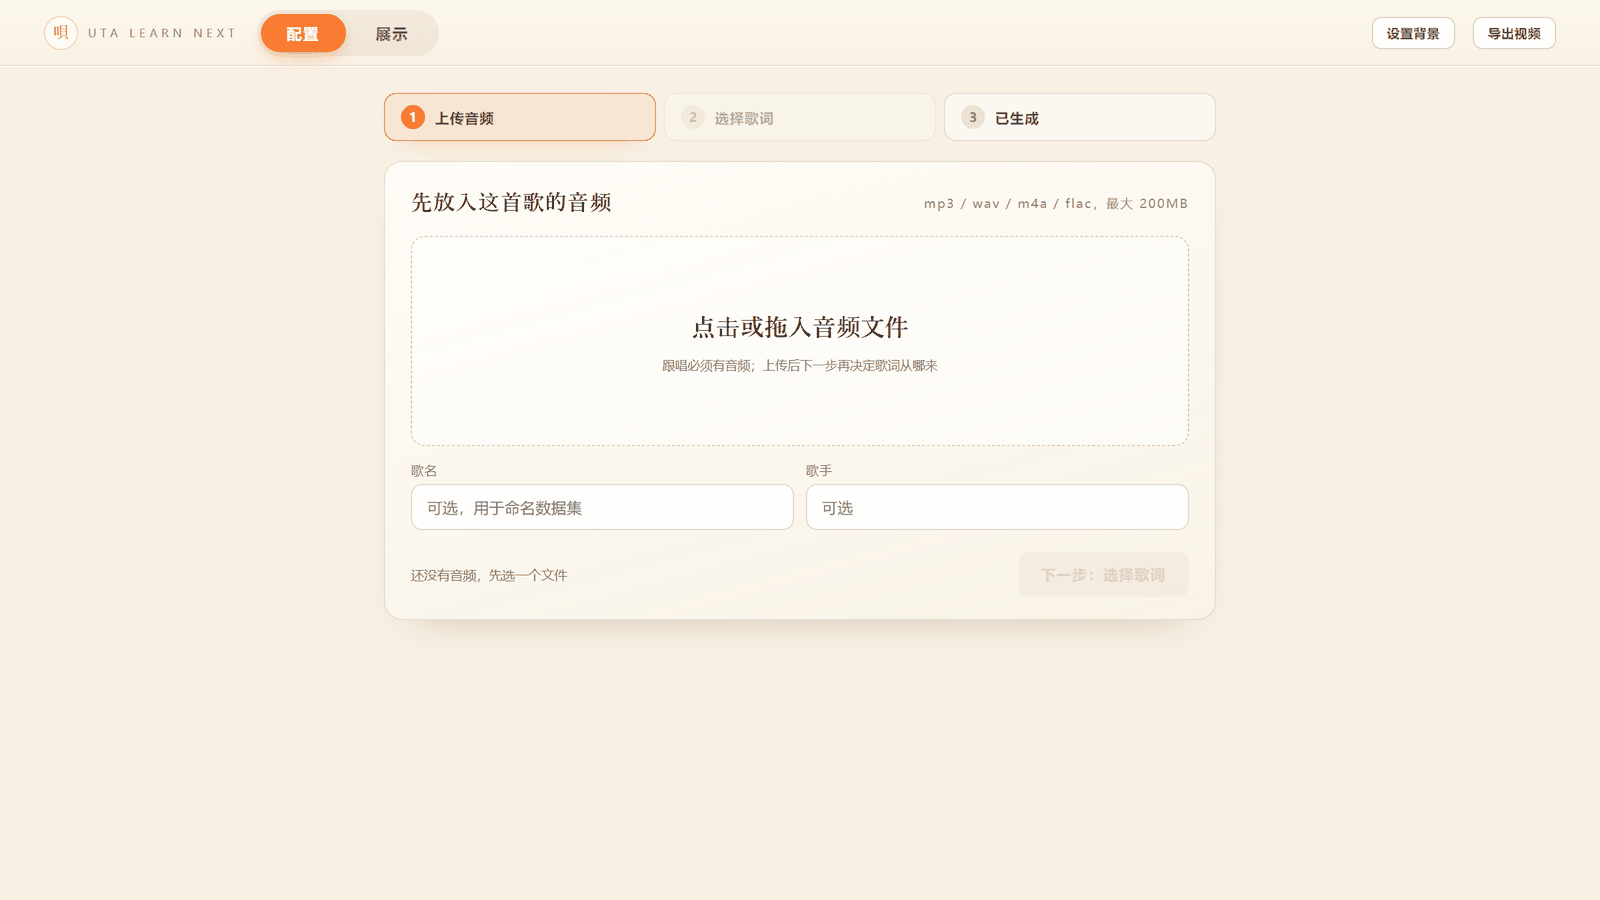
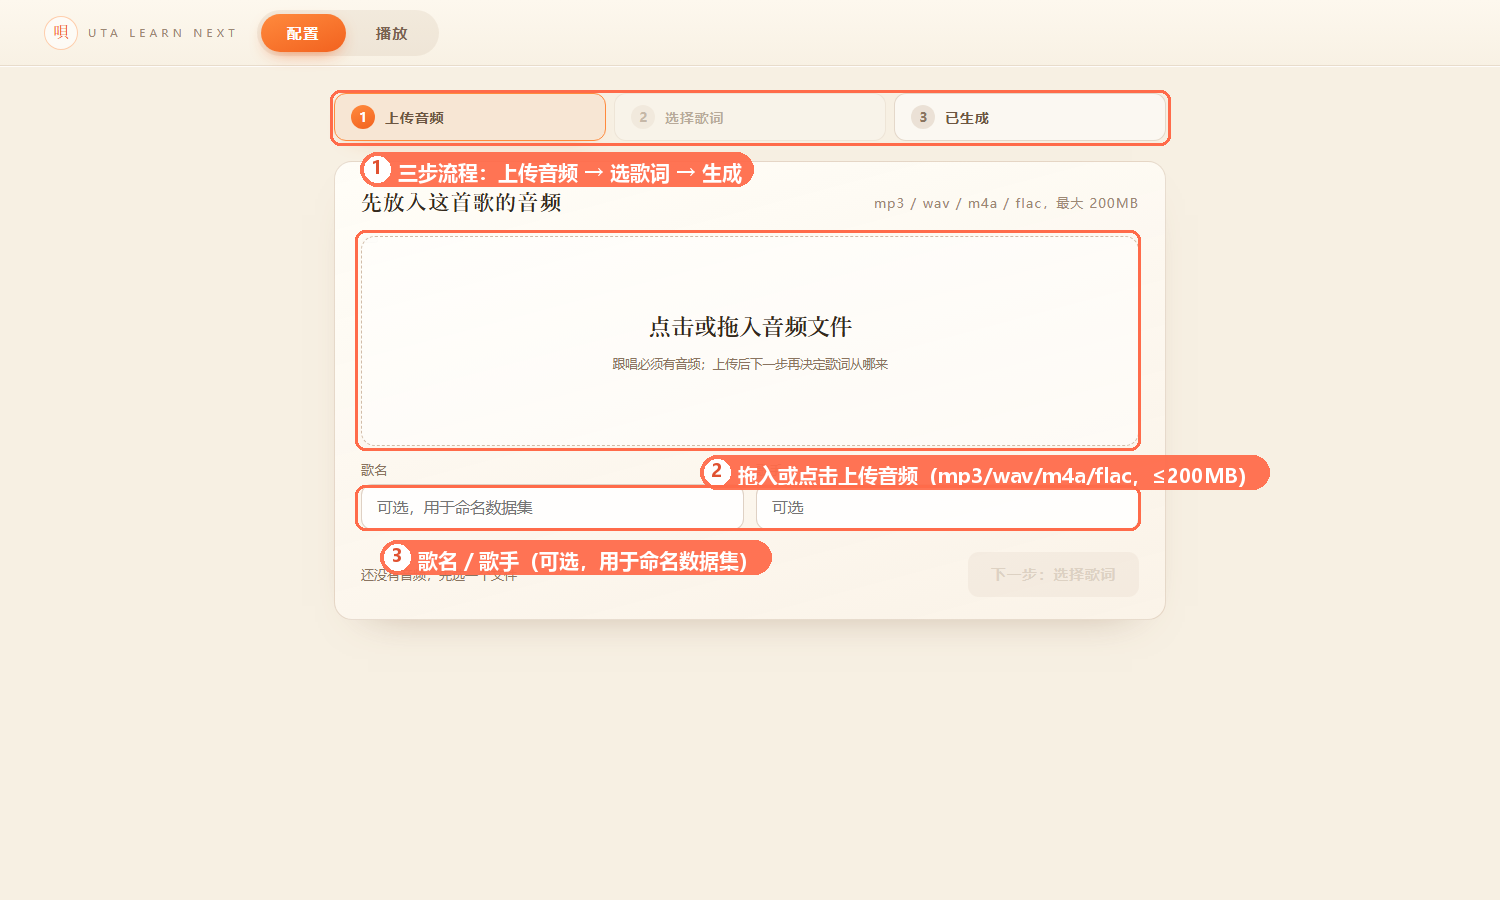
docs(readme): rewrite quick-start for end users and re-shoot all screenshots
Lead with the portable release since most users never touch the source
tree; fold the dev/packaging commands into <details> blocks and note the
two extension packs install themselves from inside the app.

Replace the stale auto-retime section with the manual-crop flow, drop
dead env vars (UTALEARN_ONSET_LEAD / UTALEARN_WHISPER), refresh the
directory/env/api tables for the merged packs, and replace the missing-
model error text with the new pack name.

Re-shoot every screenshot against the real app (coral numbered
annotations): stage, config, both pick-lyric tabs, generated list,
lyric edit, right-click menu, and the export-env modal.

diff --git a/backend/main.py b/backend/main.py
@@ -25,7 +25,7 @@ from fastapi.middleware.cors import CORSMiddleware
 from fastapi.responses import FileResponse, JSONResponse
 from fastapi.staticfiles import StaticFiles
 
-from app import export, fallback, jobs, retime
+from app import export, fallback, jobs
 from app import translate as translate_mod
 from app.builder import _is_credit
 from app.builder import build as build_song
@@ -276,45 +276,6 @@ def _upload_path(upload_id: str) -> Path:
 
 
 
-def _try_retime(parsed, audio: Path, progress) -> dict | None:
-    """Fit the source timeline onto `audio`; None when the fit is not trusted.
-
-    Runs whisper once. The transcription is cached on the ParsedLyrics object so
-    a failed fit can fall straight through to the whisper build without paying
-    for a second pass.
-    """
-    cached = getattr(parsed, "_wsegs", None)
-    if cached is None:
-        progress(0.15, "识别你的音频，用于对齐版本差异…")
-        try:
-            wav = fallback.to_wav(audio)
-            x, sr = fallback.load_wav(wav)
-            wsegs = fallback._transcribe(x, progress)
-        except Exception as e:  # noqa: BLE001
-            progress(0.18, f"识别失败，改用其他方式：{e}")
-            return None
-        finally:
-            try:
-                wav.unlink(missing_ok=True)
-            except Exception:  # noqa: BLE001
-                pass
-        parsed._wsegs = wsegs
-    else:
-        wsegs = cached
-
-    if not wsegs:
-        return None
-    try:
-        fitted = retime.fit(parsed, wsegs)
-    except Exception:  # noqa: BLE001
-        return None
-    if not fitted or not fitted.get("ok"):
-        if fitted:
-            progress(0.20, f"重对时不可靠（残差 {fitted['residual']:.2f}s），改用全量对齐")
-        return None
-    return fitted
-
-
 def _lyric_lines(parsed, title: str, artist: str, source_song: Song | None = None) -> list[str]:
     """Plain lyric text lines from a parsed source, credits dropped.
 
@@ -554,7 +515,7 @@ async def api_build_text(payload: dict):
         data = fallback.build_from_audio(audio, lines, {
             "title": title, "artist": artist,
             "youtube_url": "", "language": "ja",
-            "whisperx_model": os.environ.get("UTALEARN_WHISPER", "large-v3"),
+            "whisperx_model": "",
             "align_model": "whisper 切片转写 + 假名全局对齐 + 逐字锚定",
             "vocal_separation": "none",
             "source": "本地上传 + whisper",

diff --git a/backend/app/fallback.py b/backend/app/fallback.py
@@ -225,8 +225,9 @@ def _model_root() -> Path:
 def _model_missing_msg() -> str:
     return (
         "未找到语音识别模型。这个功能需要「自定义歌词模型扩展包」：在配置页点"
-        "「下载并安装扩展」一键装好，或到发行版页面下载 whisper-small 扩展包，"
-        "解压到应用目录的 models/ 下（得到 models/whisper-small/）后重启。"
+        "「下载并安装扩展」一键装好，或到发行版页面下载 "
+        "UtaLearnNext-custom-lyrics.zip，解压到应用目录的 models/ 下"
+        "（得到 models/whisper-small/）后重启。"
     )
 
 

diff --git a/README.md b/README.md
@@ -17,68 +17,89 @@
 
 ## 界面预览
 
-**跟唱舞台** —— 逐字高亮只标汉字的假名注音、罗马音、中文翻译；下方是当前这一句的词汇卡与句型卡。
+**跟唱舞台** —— 逐字高亮只标汉字的假名注音、罗马音、中文翻译；下方是当前这一句的词条卡与句型卡。
 
-![跟唱舞台](docs/screenshots/hero.png)
+![跟唱舞台](docs/screenshots/stage.png)
 
-**词汇卡与句型卡** —— 辞书形 + 读音 + 词性 + JLPT + 中文释义；歌里用的是屈折形时，会另外标出实际形式。
+**配置** —— 放入自己下载的音频，三种来源选一份，剩下的交给它。
 
-![词汇卡与句型卡](docs/screenshots/cards.png)
+![配置](docs/screenshots/config.png)
 
-**导出成片** —— 一键导出 1920×1080 / 60fps。下图取自实际导出的 mp4，可见逐字高亮正在擦过「雨」字。
+**选歌词 · 搜索** —— 一次查 QQ 音乐 / 酷狗 / Lrclib，带「逐字」的源有每个字的时间戳。
 
-![导出成片](docs/screenshots/export.png)
+![搜索歌词](docs/screenshots/pick_search.png)
 
-**配置** —— 放入自己下载的音频，选一份歌词源，剩下的交给它。
+**选歌词 · 自定义** —— 粘贴自己的歌词文本，whisper 在你上传的音频上离线对齐；装扩展后可顺带生成中文翻译。
 
-![配置界面](docs/screenshots/config.png)
+![自定义歌词](docs/screenshots/pick_custom.png)
+
+**已生成** —— 所有数据集都在这一步，随时回到跟唱或清理。
+
+![已生成](docs/screenshots/generated.png)
+
+**改歌词、改卡片** —— 双击歌词行进编辑（含自定义读音写法）；双击卡片进入编辑、拖动排序、右键删除；右键空白处新建卡片或整首隐藏词条/翻译。
+
+![歌词编辑](docs/screenshots/lyric_edit.png)
+![右键菜单](docs/screenshots/menu.png)
+
+**导出前会检查环境** —— Playwright / Chromium 内核浏览器 / ffmpeg 逐项探测，缺了给「自动修复」或装 Chromium 扩展包的入口。
+
+![导出环境检查](docs/screenshots/export_env.png)
 
 ---
 
 ## 快速开始
 
-需要 **Python 3.12+**、**Node.js 18+**，以及 PATH 里的 **ffmpeg**。
-
-Windows 双击 **`dev.cmd`**；macOS / Linux 运行 **`./dev.sh`**。
-首次运行会自动装依赖并构建前端，之后秒开。浏览器会打开 <http://localhost:8000/>。
-
-| 命令                   | 作用                                     |
-| ---------------------- | ---------------------------------------- |
-| `dev.cmd` / `./dev.sh` | 需要时才构建，单进程起在 :8000           |
-| `dev.cmd --rebuild`    | 强制重新构建前端                         |
-| `./dev.sh --dev`       | 前端走 vite :5173 热更新，API 仍在 :8000 |
-
-一个进程同时提供页面和 API，关掉窗口即停止。
-
-### 免安装（解压即用）
-
-不想装 Python / Node / ffmpeg，直接用发行包。**一个核心包 + 两个可选扩展包**，按需下载：
+**普通用户直接下发行包，免安装、解压即用。** 只有核心包必须下，两个扩展包按需——
+而且两个扩展包都能在应用里**一键下载安装**（需要时会弹出对应入口），
+无特殊情况不必手动去发行版页面。
 
 | 压缩包 | 体积 | 说明 |
 | --- | --- | --- |
 | `UtaLearnNext-<版本>.zip` | ~290 MB | 完整应用：搜索歌词、生成、跟唱、词汇卡、歌词/卡片编辑。本机有任意 Chromium 内核浏览器（Chrome / Edge / Brave / 360 / QQ 等）即可直接导出视频。 |
-| `UtaLearnNext-chromium.zip` | ~316 MB | 可选扩展包（**版本无关**）：内置 Chromium。没有 Chromium 内核浏览器又想导出视频时，解压到应用目录得到 `browsers/` 即可。 |
-| `UtaLearnNext-custom-lyrics.zip` | ~490 MB | 可选扩展包（**版本无关**）：自定义歌词用的语音识别 + 日→中翻译模型。解压到应用目录得到 `models/`（内含 `whisper-small/` 与 `translate-ja-zh/`），重启后即可离线对齐与翻译；不需要此功能可不下载。 |
+| `UtaLearnNext-chromium.zip` | ~316 MB | 可选扩展包（**版本无关**）：内置 Chromium。本机没有 Chromium 内核浏览器又想导出视频时才需要——「导出视频」会先检测环境，缺了可点「安装 Chromium 扩展包」自动装好；手动解压到应用目录得到 `browsers/` 也行。 |
+| `UtaLearnNext-custom-lyrics.zip` | ~490 MB | 可选扩展包（**版本无关**）：自定义歌词用的 whisper 识别 + 日→中翻译模型。在「自定义歌词」面板点「下载并安装扩展」自动装到 `models/`；手动解压到应用目录得到 `models/`（内含 `whisper-small/` 与 `translate-ja-zh/`）也行。不用自定义歌词就不用下。 |
 
 核心包解压后双击 **`启动 Uta Learn Next.cmd`** 即可。自带 Python 运行时、ffmpeg/ffprobe
 与已构建好的前端；不写注册表、不改 PATH、不需要管理员权限。需要导出但本机没有
 Chromium 内核浏览器（Edge 也算，Windows 自带）时，再把 chromium 扩展包解压进来就行——
 程序下次启动会自动识别 `browsers/`，不用装、不用改配置。
 
-两个扩展包都**与版本无关**：浏览器二进制和冻结的语音模型远比应用更新慢，下载一次即可
-在任意版本上复用，升级应用不必重下。
-
-**自定义歌词**（把自己的歌词文本对到音频上）用到的模型**不随包分发**，
-单独作为 `UtaLearnNext-custom-lyrics.zip` 扩展包提供——内含 whisper 语音识别与
-日→中翻译两个模型，不依赖版本，下载一次即可。最省事的方式是
-在「自定义歌词」面板点「**下载并安装扩展**」，程序会从本仓库最新发行版拉取并自动
-解压到 `models/`；也可手动下载该 zip 解压到应用目录得到 `models/`。
-重启后离线可用；不用自定义歌词就完全不占空间。
+两个扩展包都**与版本无关**：浏览器二进制和冻结的语音模型远比应用更新慢，
+下载一次即可在任意版本上复用，升级应用不必重下。
 
 数据默认写在文件夹内的 `localdata/` 与 `exports/`（便携语义，整个文件夹可拷走）；
 如果文件夹不可写（例如解压到受保护目录），会自动回退到 `%LOCALAPPDATA%\UtaLearnNext\`。
 
-自己打包：
+<details>
+<summary><strong>开发者：从源码运行</strong>（需要 Python 3.12+、Node.js 18+、PATH 里的 ffmpeg）</summary>
+
+```bash
+# Windows
+dev.cmd              # 需要时才构建，单进程起在 :8000
+dev.cmd --rebuild    # 强制重新构建前端
+
+# macOS / Linux
+./dev.sh             # 同上
+./dev.sh --dev       # 前端走 vite :5173 热更新，API 仍在 :8000
+```
+
+首次运行会自动装依赖并构建前端，之后秒开；浏览器打开 <http://localhost:8000/>。
+一个进程同时提供页面和 API，关掉窗口即停止。
+
+```bash
+cd backend && python -m uvicorn main:app --reload --port 8000   # 后端热重载
+cd frontend && npm run dev                                       # 前端 vite 开发服
+```
+
+```bash
+docker compose up --build                                        # 或者直接用 Docker
+```
+
+</details>
+
+<details>
+<summary><strong>自己打包发行版</strong></summary>
 
 ```bash
 python tools/build_portable.py                    # 核心包 + chromium 扩展包
@@ -93,11 +114,7 @@ ffmpeg 用的是 **essentials（精简）构建**：静态链接、单个约 104
 仍包含本应用需要的 `libx264`、`aac`、常见音频解码器与 `fps/setpts/tpad` 滤镜。
 只有罕见格式（wma/ape/amr 等）可能解不开，导出与跟唱不受影响。
 
-### Docker
-
-```bash
-docker compose up --build
-```
+</details>
 
 ---
 
@@ -114,7 +131,7 @@ docker compose up --build
 **第 2 步 · 选择歌词来源**，两种方式：
 
 - **搜索歌词**：同时查 QQ 音乐、酷狗、Lrclib。QQ 音乐和酷狗给的是**逐字时间戳**
-  （每个字都有起止时间，高亮最准），Lrclib 只有行级时间，行内按音拍长度分配。
+  （每个字都有起止时间，高亮最准），Lrclib 只有行级时间。
 - **自定义歌词**：直接粘贴文本，每行一句，不需要时间轴，用 whisper 在你上传的音频上自动对齐。
   对齐用的是「切片转写 + 全曲假名全局对齐 + 逐字锚定」：whisper 分短窗识别出词，
   再把所有歌词假名与所有识别假名做一次全局动态规划，逐个音取回它在转写里的时间；
@@ -126,13 +143,10 @@ docker compose up --build
   - 该功能需要模型扩展包：在自定义歌词面板点「**下载并安装扩展**」一键装好
   （从本仓库最新发行版拉取 `UtaLearnNext-custom-lyrics.zip`，含 whisper 识别 +
   日→中翻译两个模型），或手动下载该 zip 解压到应用目录得到 `models/`。
-  装好并勾选「开启中文翻译」后，生成时会顺带为每句产出中文翻译。
+  装好扩展后，自定义歌词页的「开启中文翻译」开关会在生成时为每句顺带产出
+  中文翻译（int8 模型约 80MB）；不装扩展或不开开关就只对齐不翻译。
 
 **第 3 步 · 生成**，完成后自动跳到播放页。
-
-生成时若勾选了「开启中文翻译」，会在对齐完成后用自带的日→中翻译模型
-（int8，约 80MB，随自定义歌词扩展包提供）为每一句生成中文翻译；
-未装翻译扩展时会在任务里提示，不影响歌词对齐本身。
 
 ### 播放：跟唱
 
@@ -160,44 +174,10 @@ docker compose up --build
 
 ## 音频与歌词版本不一致怎么办
 
-自己下载的音频常常和搜到的歌词不是同一版：片头被剪、TV size、重制版快一点点。
-手动裁剪基本对不准，因为两条时间轴差的既有**偏移**也有**缩放**。
-
-系统会自动处理：
-
-1. 用 whisper 在你的音频上取词级锚点
-2. 把源歌词行与锚点做单调 DP 对齐
-3. 用稳健回归（Theil–Sen，先剔除离群锚点）拟合 `t_你的音频 = a + b · t_源`
-   - `a` 吸收偏移（剪掉的前奏）
-   - `b` 吸收速度差（重制、编码差异）
-   - **`b` 只在足够大时才采纳**（见下）
-4. 把变换套到源的**逐字**时间戳上，并按音频时长裁剪——自动对齐到较短的那个
-
-关键是**保留源数据源的逐字精度**，只修正整体差异；而不是把歌词当纯文本重新对齐（那样会丢掉逐字信息）。
-
-whisper 的词起点比真实起唱平均早约 0.45 秒（实测词起点 −0.49s、词终点 −1.36s、中点 −0.90s，
-所以锚定词起点最优，再用常量补偿）。这个量可用环境变量 `UTALEARN_ONSET_LEAD` 调整。
-
-### 为什么有时会「忽略」速度差
-
-whisper 的起唱偏差不是固定值，会沿歌曲缓慢漂移，而漂移在数学上**和真实速度差长得一模一样**，
-用锚点残差无法区分：受控实验里（把 braveheart 音频剪掉前 20 秒，真值就是 `b = 1`），自由拟合跑出
-`b = 0.99582`，而且它的 RMS 残差**比只用偏移的拟合还低**。照单全收会让歌曲末尾累积 0.375 秒误差。
-
-所以这里用先验而不是残差判断：只有同时满足 `|b−1| ≥ 0.6%` 且累计漂移 `≥ 1.2 秒` 才采纳斜率，
-否则退回纯偏移。代价是 0.5% 以下的真实速度差会被有意忽略（此时全曲最大误差约 0.4 秒）。
-
-实测（`tools/check_retime.py` 可复跑）：
-
-| 场景                          | 拟合                              | 真值                 | 最大误差     |
-| ----------------------------- | --------------------------------- | -------------------- | ------------ |
-| 真实音频剪掉前 20 秒          | `a = -19.97s`、`b = 1.0`，12 锚点 | a = −20、b = 1       | **0.032 秒** |
-| 合成真实速度差 +1.6%          | `a = -51.45s`、`b = 1.016`        | a = −51.9、b = 1.016 | < 0.01 秒    |
-| 合成真实速度差 −1.0%          | `a = -11.55s`、`b = 0.99`         | a = −12、b = 0.99    | < 0.01 秒    |
-| 亚阈值速度差 0.5%（有意忽略） | `a = -12.01s`、`b = 1.0`          | a = −12、b = 0.995   | 0.41 秒      |
-
-拟合不可靠时（锚点太少、残差过大）会自动退回「把歌词当纯文本用 whisper 重新对齐」，不会产出错乱的时间轴。
-音频只覆盖歌曲一部分时，尾部的歌词行会被裁掉；偏移后落在 0 之前的行会钳到 0。
+自己下载的音频常常和搜到的歌词不是同一版：片头被剪、TV size、重制版多一段。
+两条时间轴只要时长差超过约 2 秒，生成前会提示**手动裁剪**——告诉程序哪一条
+更长（歌词轴或音频）、从它内部的第几分几秒开始才是歌词真正唱的地方，生成时
+就把短的那条裁到一致。不需要整段重对。
 
 ---
 
@@ -281,8 +261,7 @@ backend/
   main.py                 FastAPI 路由：搜索 / 上传 / 构建 / 播放 / 导出 / 背景
   app/
     sources.py            QQ 音乐、酷狗、Lrclib 歌词源
-    builder.py            歌词 → 数据集（时间重映射、裁剪）
-    retime.py             版本不一致时的自动重对时
+    builder.py            歌词 → 数据集（裁剪起点、时间重映射）
     fallback.py           whisper 切片转写 + 假名全局对齐 + 逐字锚定
     translate.py          离线日→中翻译（opus-mt int8 CT2 + sentencepiece）
     dicts.py              分词、词典/句型查询、罗马音
@@ -309,7 +288,7 @@ exports/                  导出的成片（不提交）
   由自定义歌词扩展包解压得到，不随核心包分发）
 - `exports/` — 导出的 MP4
 
-`localdata/` 与 `exports/` 都在 `.gitignore` 里。
+`localdata/`、`models/` 与 `exports/` 都在 `.gitignore` 里。
 
 ---
 
@@ -320,8 +299,6 @@ exports/                  导出的成片（不提交）
 | `DATA_DIR`            | `../localdata`          | 数据集目录                                |
 | `EXPORT_DIR`          | `../exports`            | 成片输出目录                              |
 | `DEFAULT_SONG`        | `braveheart`            | 首次打开时的默认曲目                      |
-| `UTALEARN_ONSET_LEAD` | `0.45`                  | whisper 起唱提前量的补偿秒数，设 `0` 关闭 |
-| `UTALEARN_WHISPER`    | `large-v3`（无扩展包时） | 自定义歌词用的 whisper 模型名；装了 `models/` 扩展包时直接读本地目录 |
 | `UTALEARN_BASE_URL`   | `http://127.0.0.1:8000` | 导出时无头浏览器访问本服务的地址          |
 | `UTALEARN_CHROME`     | 自动探测                | 导出用的 Chromium 路径                    |
 | `UTALEARN_DATA_DIR`   | `localdata`             | `tools/backfill_glosses.py` 的目标目录    |
@@ -341,8 +318,8 @@ cd frontend && npm run dev
 # 类型检查与构建
 cd frontend && npx tsc --noEmit && npm run build
 
-# 重对时回归检查
-python tools/check_retime.py
+# 导出音画同步回归检查
+python tools/check_export_sync.py exports/xxx.mp4 --audio localdata/<歌名>/audio.mp3
 ```
 
 接口一览：`/api/sources`、`/api/search`、`/api/uploads`、`/api/build`、`/api/build-text`、
